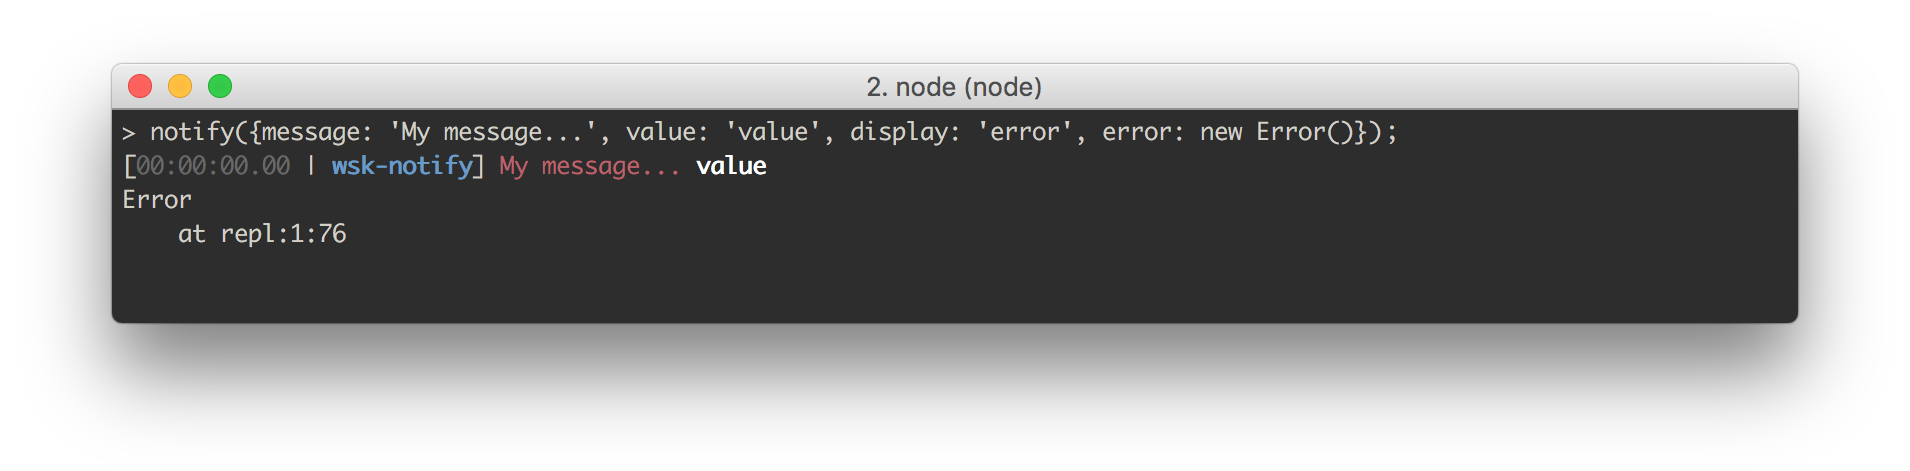
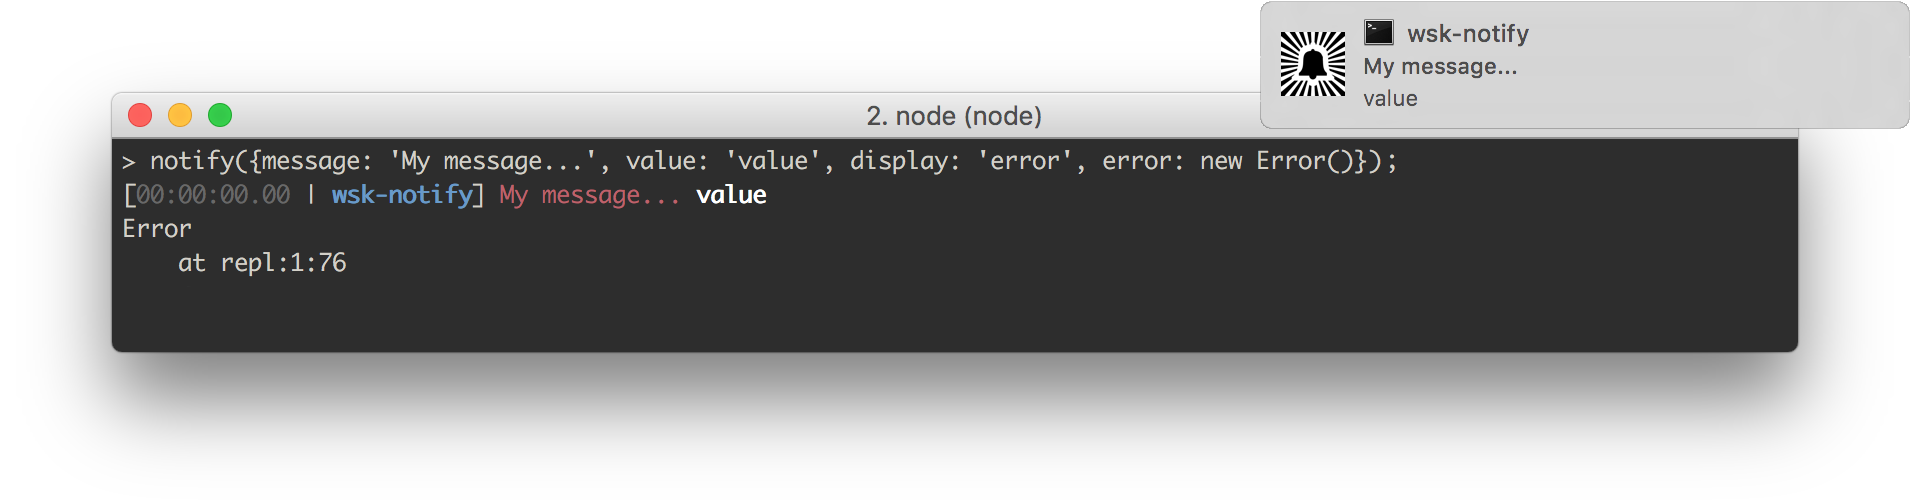
Sync new screenshots

Changed region(s): [[0.0309, 0.0, 1.0, 0.5648], [0.0618, 0.6837, 0.9576, 0.7134]]

diff --git a/index.html b/index.html
@@ -154,9 +154,9 @@ notify({
 <p><img src="img/watch.png" alt="watch display"></p>
 <p><strong><code>warn</code></strong>, uses console.warn</p>
 <p><img src="img/warn.png" alt="warn display"></p>
-<p><strong><code>error</code></strong>, uses console.error</p>
+<p><strong><code>error</code></strong>, shows desktop notification and uses console.error</p>
 <p><img src="img/error.png" alt="error display"></p>
-<p><strong><code>error</code> with an <code>Error</code> object to show stack</strong>, uses console.error</p>
+<p><strong><code>error</code> with an <code>Error</code> object</strong>, shows desktop notification, stack trace and uses console.error</p>
 <p><img src="img/error-object.png" alt="error-object display"></p>
 <p><strong><code>change</code></strong></p>
 <p><img src="img/change.png" alt="change display"></p>
